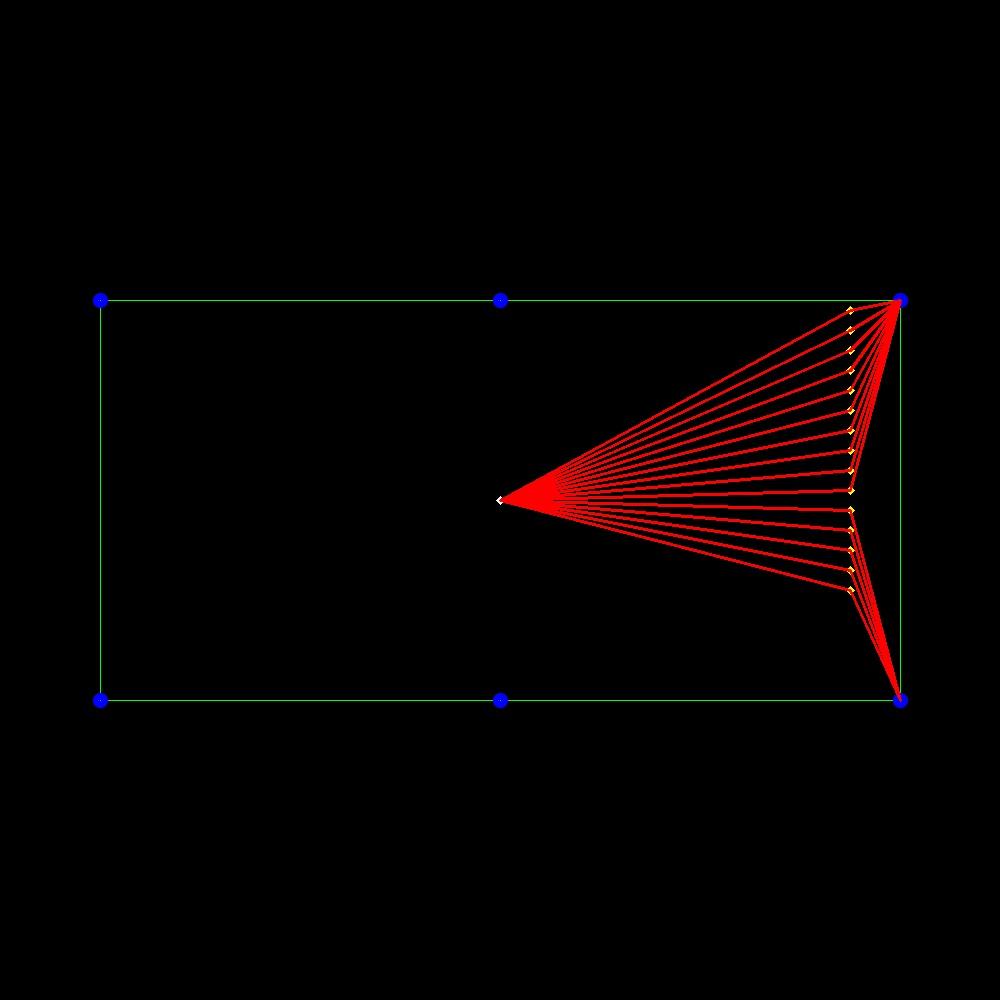
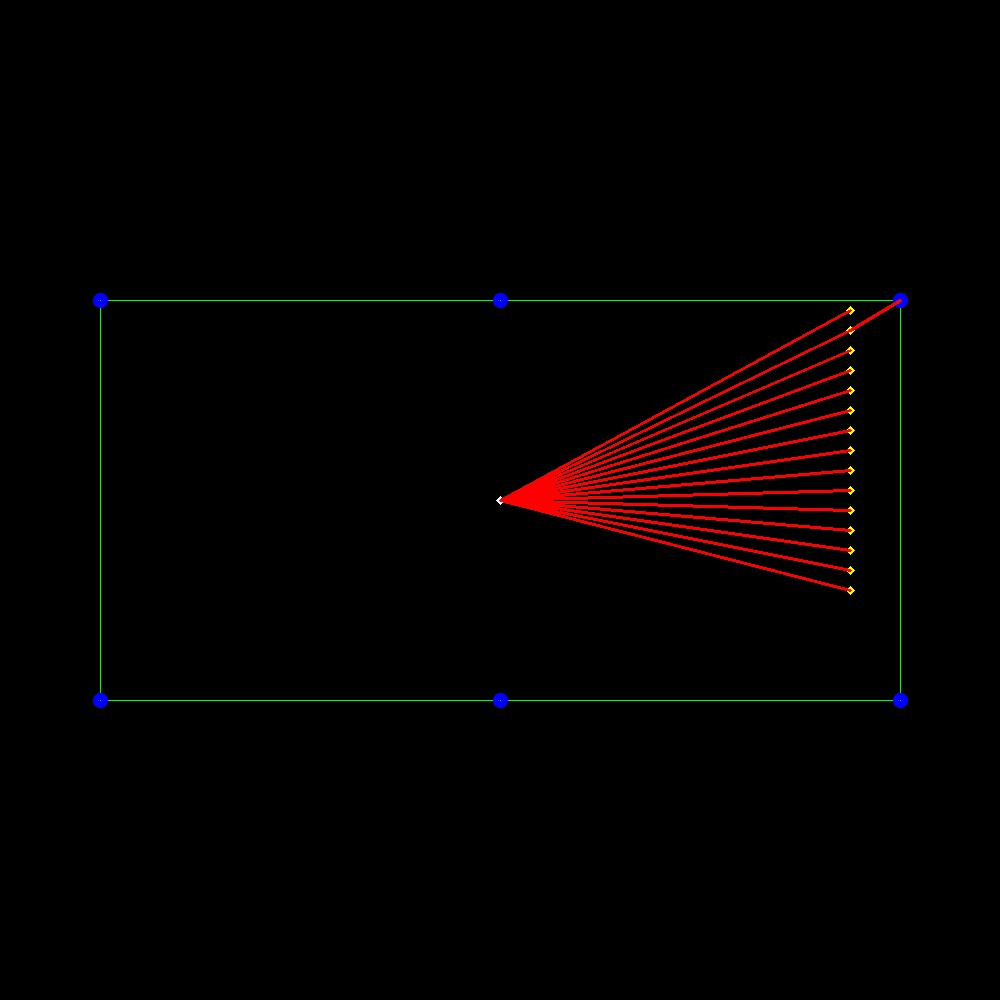
Now Chosing the Easiest Shot out of all Possible Shots as Well

Changed region(s): [[0.837, 0.279, 0.899, 0.496], [0.837, 0.527, 0.899, 0.713]]

diff --git a/shot_calculation.py b/shot_calculation.py
@@ -89,8 +89,11 @@ balls_to_y_boundary = {1: [-1,-1],
                     13: [-1,-1],
                     14: [-1,-1],
                     15: [-1,-1]}
-# the chosen pocket for each ball
-pocket_for_each_ball = [-1,-1,-1,-1,-1,-1,-1,-1,-1,-1,-1,-1,-1,-1,-1]
+
+# the chosen pocket for each ball along with its hardness
+pocket_for_each_ball = [[-1,1],[-1,1],[-1,1],[-1,1],[-1,1],
+                        [-1,1],[-1,1],[-1,1],[-1,1],[-1,1],
+                        [-1,1],[-1,1],[-1,1],[-1,1],[-1,1]]
 
 
 #A list of pockets with each element being an x-y coordinate for the pocket
@@ -193,7 +196,7 @@ def print_dimensions():
         print("Second Intercepts = {intercepts}".format(intercepts = shot_params[SECOND_INTERCEPT]))
         print("Bounday X Values are = {bound}".format(bound = x_bound))
         print("Bounday Y Values are = {bound}".format(bound = y_bound))
-        print("Pocket Chosen for this ball = {pocket}".format(pocket = pocket_for_each_ball[i-1]))
+        print("Pocket Chosen for this ball and its hardness = {pocket}".format(pocket = pocket_for_each_ball[i-1]))
         print("-------------------------------------------------")
 
 
@@ -323,11 +326,16 @@ def drawImage():
         shot_params = ball_to_shots.get(target_ball)
         if(not math.isnan(shot_params[FIRST_SLOPE])):
             cv.line(img,(listX[CUE_BALL],listY[CUE_BALL]),(listX[target_ball],listY[target_ball]),(0,0,255 - (i*10)),2);
-        if((not math.isnan(pocket_for_each_ball[target_ball-1])) and pocket_for_each_ball[target_ball-1]>=0):
-            pocketX = pockets[pocket_for_each_ball[target_ball-1]][POCKETX]
-            pocketY = pockets[pocket_for_each_ball[target_ball-1]][POCKETY]
-            cv.line(img,(listX[target_ball],listY[target_ball]),(pocketX,pocketY),(0,0,255 - (i*20)),2);
-        
+        #if((not math.isnan(pocket_for_each_ball[target_ball-1][0])) and pocket_for_each_ball[target_ball-1][0]>=0):
+            #pocketX = pockets[pocket_for_each_ball[target_ball-1][0]][POCKETX]
+            #pocketY = pockets[pocket_for_each_ball[target_ball-1][0]][POCKETY]
+            #cv.line(img,(listX[target_ball],listY[target_ball]),(pocketX,pocketY),(0,0,255 - (i*20)),2);
+    
+    chosen_shot = chose_easiest_shot()
+    if (chosen_shot>0):
+        pocketX = pockets[pocket_for_each_ball[chosen_shot][0]][POCKETX]
+        pocketY = pockets[pocket_for_each_ball[chosen_shot][0]][POCKETY]
+        cv.line(img,(listX[chosen_shot+1],listY[chosen_shot+1]),(pocketX,pocketY),RED,2)
     cv.imwrite('img.jpeg',img)
 
 
@@ -524,9 +532,27 @@ def chose_pocket():
                         min_calc = hardness
                         chosen_idx = shot_idx
                     shot_idx+=1
-            pocket_for_each_ball[target_ball-1] = chosen_idx
-        else: pocket_for_each_ball[target_ball-1] = np.nan
+            pocket_for_each_ball[target_ball-1][0] = chosen_idx
+            pocket_for_each_ball[target_ball-1][1] = min_calc
 
+        else: 
+            pocket_for_each_ball[target_ball-1][0] = np.nan
+            pocket_for_each_ball[target_ball-1][1] = np.inf
+            
+def chose_easiest_shot():
+    min_hardness = 100000
+    min_indx = -1
+    cur_indx = 0
+    for shot in pocket_for_each_ball:
+        if (math.isnan(shot[0])): 
+            cur_indx +=1 
+            continue
+        else:
+            if shot[1] < min_hardness:
+                min_hardness = shot[1]
+                min_indx = cur_indx
+            cur_indx +=1
+    return min_indx
 
 
 find_distance_to_all_pockets();
